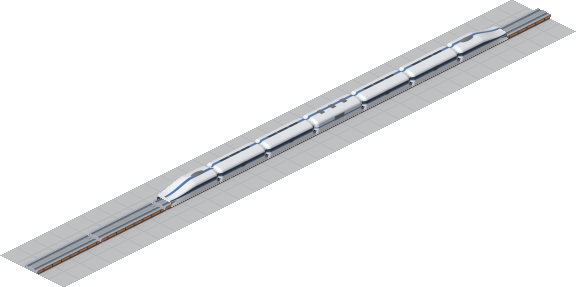
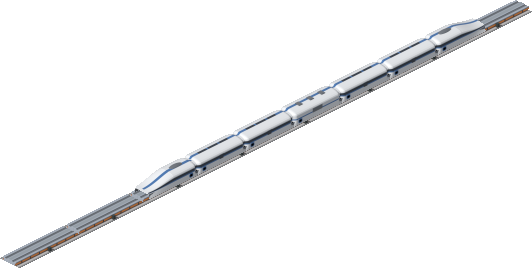
feat(track): unpaved foundation band and steel bending-switch junctions
The guideway no longer paves its tile. Each run rides a precast
foundation band barely wider than the deck, drainage gutters along the
slab edges, and the packer keeps everything outside the rendered
footprint transparent so terrain, snow and slopes show through — the
pak128 ballast-strip read. Trackside hardware stands on the band or on
its own footings: mast pads for the 300, service cabinets on a
world-anchored rhythm for the 500/700, whose cables are buried.

Junctions and diagonals become the bending beam (#12722): a real maglev
switch is a bare steel box girder flexed by actuators and a maglev
curve is that same beam, so every tile where runs meet or bend renders
dark segmented steel — one tier-neutral machine surface — and the
tier's dressing steps back for the length of the mechanism. The flexing
surface stays ice-free, so junctions read at a glance on a winter map.

README trainset showcases regenerated on the new ground; signals and
logos documented in the Track and Rolling stock sections.

Claude-Session: https://claude.ai/code/session_014sy5d7ejbbKJroL52TKsu5

Changed region(s): [[0.0, 0.0, 1.0, 1.0]]

diff --git a/tools/blender/build_maglev_track.py b/tools/blender/build_maglev_track.py
@@ -136,19 +136,19 @@ TRACK_TIERS = {
     300: dict(girder=(0.500, 0.430, 0.300),   # warm site-cast sand
               girder_seams=0.42, seam_period=8.0, seam_width=0.22,
               slot=(0.330, 0.285, 0.205),     # concrete slot floor between packs
-              stators=True, snow_slots=True, posts=True,
+              stators=True, snow_slots=True, posts=True, cabinets=0.0,
               conduit=False, fairing=False, fence=False, heated_deck=False,
               lit_edges=False),
     500: dict(girder=(0.360, 0.395, 0.450),   # the cool precast standard
               girder_seams=0.06, seam_period=16.0, seam_width=0.05,
               slot=None,
-              stators=False, snow_slots=False, posts=False,
+              stators=False, snow_slots=False, posts=False, cabinets=10.7,
               conduit=True, fairing=False, fence=False, heated_deck=False,
               lit_edges=False),
     700: dict(girder=(0.620, 0.665, 0.720),   # pale engineered shell
               girder_seams=0.10, seam_period=4.0, seam_width=0.05,
               slot=None,
-              stators=False, snow_slots=False, posts=False,
+              stators=False, snow_slots=False, posts=False, cabinets=21.4,
               conduit=False, fairing=True, fence=True, heated_deck=True,
               lit_edges=True),
 }
@@ -157,9 +157,23 @@ TRACK_TIERS = {
 # character comes from the tube around it, not the concrete inside.
 TUBE_BEAM = dict(girder=None, girder_seams=0.10, seam_period=4.0,
                  seam_width=0.07, slot=None,
-                 stators=False, snow_slots=False, posts=False,
+                 stators=False, snow_slots=False, posts=False, cabinets=0.0,
                  conduit=False, fairing=False, fence=False, heated_deck=False,
                  lit_edges=False)
+
+# The guideway does not pave its tile: an elevated beam only needs a
+# foundation band, and the ground either side stays living terrain — the
+# same read as pak128's own ballast strips. The band is a precast slab a
+# little wider than the deck, a drainage gutter running along each edge,
+# and the trackside hardware stands on it: the 300's mast footings, the
+# 500/700's service cabinets (their cables are buried, so the surface
+# grows boxes on a world-anchored rhythm instead of masts).
+BAND_HALF = 2.30          # slab half width; deck half is 1.60
+BAND_TOP = 0.07           # slab thickness above grade
+GUTTER = 0.25             # drainage gutter width along each slab edge
+CABINET_W = 0.52          # service cabinet along the run
+CABINET_D = (1.72, 2.16)  # cabinet footprint across, near the slab edge
+CABINET_H = 0.74
 
 # Exposed stator packs in the 300's guidance slots: real raised blocks, not a
 # seam texture — the world-XY seam grid runs a line *along* a slot as happily
@@ -423,6 +437,8 @@ def build_posts(i, start, axis, length, right, up, runs, shape, current_run):
                                  roughness=0.50, metallic=0.60)
     wire_mat = iso.make_material("wire", (0.030, 0.032, 0.036),
                                  roughness=0.60, metallic=0.30)
+    pad_mat = iso.make_material("mast_pad", (0.40, 0.40, 0.40),
+                                roughness=0.95, noise=0.25)
 
     side_out = right if (right.x - right.y) < 0.0 else -right
 
@@ -464,10 +480,19 @@ def build_posts(i, start, axis, length, right, up, runs, shape, current_run):
         base = start + axis * t + side_out * iso.m(POST_OFFSET)
         masts.append((t, clear_of_runs(base)))
 
+    pq = iso.m(0.34)
+    pad_profile = [(-pq, -pq), (pq, -pq), (pq, pq), (-pq, pq)]
+
     for k, (t, keep) in enumerate(masts):
         if not keep or not (0.0 <= t <= length):
             continue
         base = start + axis * t + side_out * iso.m(POST_OFFSET)
+        # With no tile-wide apron the mast stands on terrain, so it gets
+        # its own concrete footing pad.
+        iso.extrude_profile(f"pad{i}_{k}", pad_profile,
+                            base - up * iso.m(0.02),
+                            base + up * iso.m(0.10),
+                            axis, side_out, pad_mat, bevel=0.0, caps=True)
         iso.extrude_profile(f"mast{i}_{k}", mast_profile,
                             base - up * iso.m(0.05),
                             base + up * iso.m(POST_TOP),
@@ -546,15 +571,32 @@ def build_cell(spec, season, enclosure="none", part="back", tier=1000):
         slot_color = tuple(0.45 * c + 0.55 * w
                            for c, w in zip(slot_color, (0.86, 0.88, 0.89)))
 
+    # A junction or diagonal is not concrete at all: a real maglev switch is
+    # a bare steel box girder that actuators flex sideways, and a maglev
+    # "curve" is that same bending beam — there are no sharp turnouts to
+    # cast. So every tile where runs meet or bend renders its girder as
+    # steel with a tight actuator-segment rhythm, one tier-neutral machine
+    # surface across the whole ladder, and the tier's dressing (stators,
+    # tray, fences, masts) steps back for the length of the mechanism. In
+    # winter the flexing surface stays dark — a switch cannot be allowed to
+    # ice over — which makes junctions read at a glance on a white map.
+    flexing = ("corner" in spec) or len(runs_for(spec)) > 1
+
     # The apron is panelled concrete like every other pak128 way; the girder
     # carries its own joint rhythm — heavy segment joints on the site-cast
     # 300, nearly seamless on the engineered 700.
     apron_mat = iso.make_material("apron", pal["apron"], roughness=0.95,
                                   noise=0.30, seams=0.075, seam_period_m=4.0)
-    girder_mat = iso.make_material("girder", girder_color, roughness=0.72,
-                                   noise=0.12, seams=cfg["girder_seams"],
-                                   seam_period_m=cfg["seam_period"],
-                                   seam_width_m=cfg["seam_width"])
+    if flexing:
+        girder_mat = iso.make_material("flex_girder", (0.190, 0.205, 0.235),
+                                       roughness=0.35, metallic=0.75,
+                                       seams=0.30, seam_period_m=2.0,
+                                       seam_width_m=0.09)
+    else:
+        girder_mat = iso.make_material("girder", girder_color, roughness=0.72,
+                                       noise=0.12, seams=cfg["girder_seams"],
+                                       seam_period_m=cfg["seam_period"],
+                                       seam_width_m=cfg["seam_width"])
     slot_mat = iso.make_material("slot", slot_color, roughness=0.45,
                                  metallic=0.55)
     lev_mat = iso.make_material("levitation", deck_pal["levitation"],
@@ -568,25 +610,19 @@ def build_cell(spec, season, enclosure="none", part="back", tier=1000):
         # under its footprint rather than an apron across the whole tile, so
         # the ground either side stays visible.
         build_plinth(spec, shape, up, apron_mat)
-    else:
-        corner = layout.apron_corner(spec)
-        if corner:
-            tri = {"ne": (iso.CORNER_TOP, iso.CORNER_RIGHT, iso.CORNER_BOTTOM),
-                   "sw": (iso.CORNER_TOP, iso.CORNER_BOTTOM, iso.CORNER_LEFT),
-                   "nw": (iso.CORNER_TOP, iso.CORNER_RIGHT, iso.CORNER_LEFT),
-                   "se": (iso.CORNER_RIGHT, iso.CORNER_BOTTOM, iso.CORNER_LEFT)}[corner]
-            iso.polygon("apron", shape, tri, apron_mat)
-        else:
-            iso.polygon("apron", shape,
-                        [iso.CORNER_TOP, iso.CORNER_RIGHT,
-                         iso.CORNER_BOTTOM, iso.CORNER_LEFT], apron_mat)
-    profile = profile_world(cfg["fairing"])
+    # The open guideway paves nothing either: each run gets a foundation
+    # band swept beneath it (built in the run loop below), and the rest of
+    # the tile stays transparent so the terrain shows through.
+    # The flexing beam is a bare mechanism: no skirt, no tray, no fences,
+    # no stator dressing, no masts — the dressed tiers hand over to steel
+    # for the length of the switch and pick up again beyond it.
+    profile = profile_world(cfg["fairing"] and not flexing)
 
     edge_materials = {e: 1 for e in SLOT_EDGES}
     edge_materials.update({e: 2 for e in DECK_EDGES})
 
     duct_mat = clamp_mat = fence_mat = stator_mat = None
-    if cfg["conduit"]:
+    if cfg["conduit"] and not flexing:
         # Safety-orange cable tray: the 500's services moved off the 300's
         # masts and onto the beam, and the tray is painted to be found. The
         # flank lives in the girder's own shade, which turns pure albedo
@@ -599,10 +635,10 @@ def build_cell(spec, season, enclosure="none", part="back", tier=1000):
         bsdf.inputs["Emission Strength"].default_value = 0.28
         clamp_mat = iso.make_material("clamp", (0.100, 0.105, 0.115),
                                       roughness=0.50, metallic=0.60)
-    if cfg["fence"]:
+    if cfg["fence"] and not flexing:
         fence_mat = iso.make_glass("fence", deck_pal["glass_tint"],
                                    face_alpha=0.12, edge_alpha=0.80)
-    if cfg["stators"]:
+    if cfg["stators"] and not flexing:
         stator_mat = iso.make_material("stator", (0.055, 0.058, 0.065),
                                        roughness=0.40, metallic=0.70)
 
@@ -620,10 +656,48 @@ def build_cell(spec, season, enclosure="none", part="back", tier=1000):
         right = axis.cross(up).normalized()
         over = iso.m(spec_run["overrun"])
 
+        if enclosure != "tube":
+            # Foundation band under the run: slab top with a drainage
+            # gutter along each edge, everything else left as terrain.
+            gutter_mat = iso.make_material("gutter",
+                                           tuple(c * 0.55 for c in pal["apron"]),
+                                           roughness=0.90, noise=0.15)
+            band = [(iso.m(-BAND_HALF), 0.0),
+                    (iso.m(-BAND_HALF), iso.m(BAND_TOP)),
+                    (iso.m(-BAND_HALF + GUTTER), iso.m(BAND_TOP)),
+                    (iso.m(BAND_HALF - GUTTER), iso.m(BAND_TOP)),
+                    (iso.m(BAND_HALF), iso.m(BAND_TOP)),
+                    (iso.m(BAND_HALF), 0.0)]
+            iso.extrude_profile(f"band{i}", band,
+                                start - axis * over, end + axis * over,
+                                right, up, [apron_mat, gutter_mat],
+                                {1: 1, 3: 1}, bevel=0.0)
+
         iso.extrude_profile(f"girder{i}", profile,
                             start - axis * over, end + axis * over,
                             right, up, girder_slots, edge_materials,
                             bevel=iso.m(0.06))
+
+        if cfg["cabinets"] and not flexing and enclosure != "tube":
+            # Buried services surface as cabinets on a world-anchored
+            # rhythm, camera side, standing on the slab edge.
+            cab_mat = iso.make_material("cabinet", (0.060, 0.075, 0.070),
+                                        roughness=0.55, metallic=0.35)
+            cab_side = right if (right.x - right.y) > 0.0 else -right
+            c_lo, c_hi = CABINET_D
+            for k, t in enumerate(anchored(start, axis, length,
+                                           cfg["cabinets"])):
+                if not (0.0 <= t <= length):
+                    continue
+                sgn = 1.0 if cab_side is right else -1.0
+                cab = [(iso.m(sgn * c_lo), iso.m(BAND_TOP)),
+                       (iso.m(sgn * c_hi), iso.m(BAND_TOP)),
+                       (iso.m(sgn * c_hi), iso.m(BAND_TOP + CABINET_H)),
+                       (iso.m(sgn * c_lo), iso.m(BAND_TOP + CABINET_H))]
+                iso.extrude_profile(f"cab{i}_{k}", cab,
+                                    start + axis * (t - iso.m(CABINET_W) / 2),
+                                    start + axis * (t + iso.m(CABINET_W) / 2),
+                                    right, up, cab_mat, bevel=0.0, caps=True)
 
         if stator_mat:
             build_stators(i, start, axis, length, over, right, up, stator_mat)
@@ -688,7 +762,7 @@ def build_cell(spec, season, enclosure="none", part="back", tier=1000):
                                                 bevel=0.0, caps=False)
                     iso.no_shadow(strip)
 
-        if cfg["posts"]:
+        if cfg["posts"] and not flexing:
             build_posts(i, start, axis, length, right, up, runs, shape,
                         spec_run)
 

diff --git a/tools/assemble_sheet.py b/tools/assemble_sheet.py
@@ -195,7 +195,11 @@ def build_cell(path: pathlib.Path, spec, factor: int) -> np.ndarray:
 
     ground = ground_mask(spec)
     airspace = dilate_up(ground, MAX_OBJECT_PX)
-    keep = ground | (airspace & (alpha >= 0.5))
+    # The guideway no longer paves its tile: inside the diamond keep
+    # whatever was rendered (band, girder, hardware) and let the terrain
+    # show through the rest; above the diamond require solid coverage so
+    # the swept overrun cannot bleed into a neighbour.
+    keep = (ground & (alpha > 0.02)) | (airspace & (alpha >= 0.5))
 
     rgb = fill_holes(rgb, alpha > 0.02, keep)
     out = np.empty((layout.CELL, layout.CELL, 3), dtype=np.uint8)

diff --git a/src/maglev/README.md b/src/maglev/README.md
@@ -58,6 +58,39 @@ with its edge threads still burning. Each tier keeps its own toolbar icon in
 row 0 — the guideway slice under the speed sign wears the tier's colours —
 and every sheet carries winter tiles as well as summer ones.
 
+### The ground under the beam
+
+The guideway does not pave its tile. Each run rides a precast foundation
+band barely wider than the deck — a drainage gutter along each slab edge —
+and everything beyond the band stays living terrain, the same read as
+pak128's own ballast strips. The trackside hardware stands on that band or
+on its own footings: the 300's masts get concrete pads out on the grass,
+while the 500 and 700 grow service cabinets on a world-anchored rhythm
+along the slab edge — their cables are buried, and boxes on the surface
+are what buried services look like. The packer keeps everything outside
+the rendered footprint transparent, so terrain, snow and slopes show
+through exactly as the map draws them.
+
+### Junctions and diagonals: the bending beam
+
+A real maglev has no turnouts to cast — a switch is a bare steel box girder
+that actuators flex sideways, and a "curve" is that same bending beam. Every
+tile where runs meet or bend (switches, crossings, and the 45° diagonals)
+therefore renders its girder as dark segmented steel, one tier-neutral
+machine surface across the whole ladder; the tier's dressing — stator packs,
+cable tray, wind fences, masts, the 700's skirt — steps back for the length
+of the mechanism and resumes beyond it. The flexing surface is kept ice-free,
+so junctions stay dark on a winter map and can be spotted at a glance.
+
+### Signals
+
+`maglev_signal.dat` ships a single-head block signal and a twin-head choose
+signal (routes a pod to any free platform), both from year 2000. The sheet is
+generated by `make signal`; lamp pixels are stamped to the reserved lights
+`#FF211D`/`#01DD01` at pack time, so an aspect keeps glowing after dark, and
+a repeater lamp on the head's back keeps the aspect readable in the two
+rotations that face away from the camera.
+
 ### Building long guideways
 
 A maglev trunk wants to be straight for hundreds of tiles (see the stop
@@ -189,6 +222,11 @@ until the blister disappears, so a vacuum capsule stays smooth. Door pockets
 are recessed and commuter window bands segmented, both behind the
 `SCULPTED_FLANKS` flag in `tools/blender/build_maglev_vehicle.py` for easy
 revert.
+
+Every vehicle carries its manufacturer's glyph on both flanks near the
+coupling end — Meridian's disc, Kestrel's twin bars, Volta's lightning step,
+Aetheris' ring — billboard-sized (~1.3m) in the livery accent, because at
+4px per metre a realistic emblem is two pixels of nothing.
 
 The tail is the head's geometry with the windscreen blanked to body colour,
 rendered as its own sheet and used with every direction swapped for its
